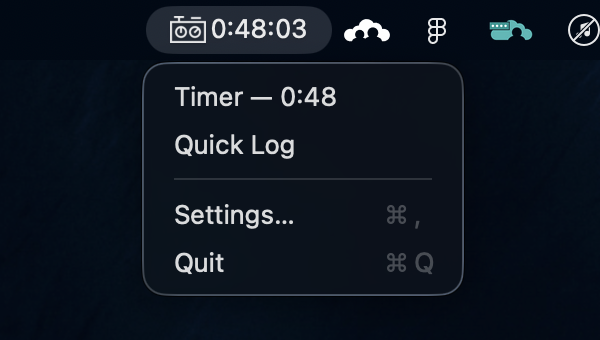
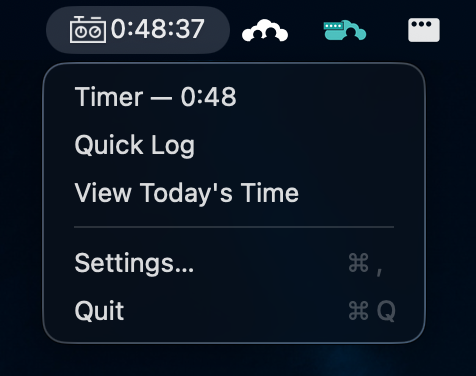
view todays time update

diff --git a/Sources/WmjQuickTimer/AppModel.swift b/Sources/WmjQuickTimer/AppModel.swift
@@ -54,6 +54,7 @@ final class AppModel {
     }
     var projects: [Project] = []
     var services: [Service] = []
+    var todayRows: [TodayRow] = []
     var loadError: String?
     /// Projects on the user's recent timesheets, most recent first — used only
     /// to rank the search list (membership can't be queried; see AGENTS.md).
@@ -267,6 +268,33 @@ final class AppModel {
         }
     }
 
+    /// Today's timesheet entries resolved to names for the Today panel.
+    /// Needs `refresh()` to have populated projects/services first.
+    func loadToday() async {
+        if Self.demo {
+            todayRows = TodayRow.build(entries: Self.demoTodayEntries, projects: Self.demoProjects,
+                                       services: Self.demoServices, tasksByProject: ["d1": Self.demoTasks])
+            return
+        }
+        guard isConfigured else { return }
+        do {
+            let entries = try await api.timeEntries(on: Date())
+            var tasksByProject: [String: [WMJTask]] = [:]
+            // A day's timesheet has single-digit distinct projects — far under
+            // the ~55-request 429 ceiling. A failed lookup just shows raw taskIDs.
+            for key in Set(entries.compactMap(\.projectKey)) {
+                tasksByProject[key] = (try? await api.tasks(projectKey: key)) ?? []
+            }
+            todayRows = TodayRow.build(entries: entries, projects: projects,
+                                       services: services, tasksByProject: tasksByProject)
+            loadError = nil
+        } catch is CancellationError {
+        } catch let error as URLError where error.code == .cancelled {
+        } catch {
+            loadError = error.localizedDescription
+        }
+    }
+
     /// Tasks for a project the user can plausibly log time to: not completed,
     /// and assigned to them or unassigned. The API has no real "can log time"
     /// check short of POSTing an entry, so this is the best available gate.
@@ -355,6 +383,19 @@ extension AppModel {
         assets: [.init(name: "Wmj-Quick-Timer-0.3.0.zip",
                        browserDownloadURL: URL(string: "https://example.invalid/demo.zip")!,
                        size: 664_789)])
+
+    /// Today panel rows: two resolve against `demoTasks`, one exercises the
+    /// raw-taskID fallback (nil projectKey), and the 0-hour row must be hidden.
+    static let demoTodayEntries = [
+        TimesheetEntry(timeKey: "e1", actualHours: 1.5, projectNumber: "ACME-1042",
+                       taskID: "30", serviceCode: "dev", workDate: "2026-08-05T00:00:00", projectKey: "d1"),
+        TimesheetEntry(timeKey: "e2", actualHours: 0.75, projectNumber: "ACME-1042",
+                       taskID: "50", serviceCode: "crtv", workDate: "2026-08-05T00:00:00", projectKey: "d1"),
+        TimesheetEntry(timeKey: "e3", actualHours: 2, projectNumber: "NORTH-2201",
+                       taskID: "2.1.1", serviceCode: "strat", workDate: "2026-08-05T00:00:00"),
+        TimesheetEntry(timeKey: "e4", actualHours: 0, projectNumber: "GLOBEX-3310",
+                       taskID: "10", serviceCode: "am", workDate: "2026-08-05T00:00:00", projectKey: "d4"),
+    ]
 
     static let demoServices = [
         Service(serviceCode: "CRTV", description: "Creative"),

diff --git a/Sources/WmjQuickTimer/Panels.swift b/Sources/WmjQuickTimer/Panels.swift
@@ -5,6 +5,7 @@ enum WindowID {
     static let timer = "timer"
     static let quickLog = "quickLog"
     static let update = "update"
+    static let today = "today"
 }
 
 /// Update window: what's new, and a button that downloads, verifies and
@@ -199,6 +200,61 @@ struct QuickLogPanel: View {
     }
 }
 
+/// Today panel: what's already on today's timesheet, resolved to names, with a
+/// link out to the full Workamajig timesheet.
+struct TodayPanel: View {
+    @Environment(AppModel.self) private var model
+    @State private var loading = true
+
+    var body: some View {
+        VStack(alignment: .leading, spacing: 12) {
+            Text("Today's Time").font(.headline)
+            if loading && model.todayRows.isEmpty {
+                ProgressView().controlSize(.small)
+            } else if model.todayRows.isEmpty {
+                Text("No time logged today.")
+                    .font(.callout)
+                    .foregroundStyle(.secondary)
+            } else {
+                Grid(alignment: .leading, horizontalSpacing: 12, verticalSpacing: 6) {
+                    GridRow {
+                        Text("Project")
+                        Text("Task")
+                        Text("Service")
+                        Text("Hours").gridColumnAlignment(.trailing)
+                    }
+                    .font(.caption)
+                    .foregroundStyle(.secondary)
+                    Divider()
+                    ForEach(model.todayRows) { row in
+                        GridRow {
+                            Text(row.projectName)
+                            Text(row.taskName)
+                            Text(row.serviceName)
+                            Text(row.hours, format: .number.precision(.fractionLength(2)))
+                                .monospacedDigit()
+                        }
+                        .font(.callout)
+                    }
+                }
+            }
+            if let url = URL(string: model.wmjURL), !model.wmjURL.isEmpty {
+                Link("View Full Timesheet", destination: url)
+            }
+            if let message = model.loadError {
+                Text(message).font(.caption).foregroundStyle(.red)
+            }
+        }
+        .panelChrome(width: 520)
+        .task {
+            // refresh first: the name joins need projects/services loaded.
+            await model.refresh()
+            await model.loadToday()
+            loading = false
+        }
+    }
+}
+
 /// Drops the containing window under the menu bar icon instead of wherever
 /// SwiftUI last left it.
 private struct StatusItemAnchor: NSViewRepresentable {
@@ -225,9 +281,9 @@ private struct StatusItemAnchor: NSViewRepresentable {
 }
 
 extension View {
-    func panelChrome() -> some View {
+    func panelChrome(width: CGFloat = 380) -> some View {
         padding(16)
-            .frame(width: 380)
+            .frame(width: width)
             .fixedSize(horizontal: false, vertical: true)
             .background(StatusItemAnchor())
             .regularWhileOpen()

diff --git a/Sources/WmjQuickTimerCore/Models.swift b/Sources/WmjQuickTimerCore/Models.swift
@@ -200,6 +200,45 @@ public extension [TimesheetEntry] {
     }
 }
 
+/// One display row of today's logged time: timesheet entries resolved to
+/// human-readable names (`GET /time` returns only numbers/codes).
+public struct TodayRow: Identifiable, Sendable, Equatable {
+    public var id: String
+    public var projectName: String
+    public var taskName: String
+    public var serviceName: String
+    public var hours: Double
+
+    /// Joins entries against the already-loaded projects/services and the
+    /// per-project task lists. Every lookup falls back to the raw value, and
+    /// 0-hour rows (the app's own pre-start validation entries) are hidden.
+    public static func build(entries: [TimesheetEntry], projects: [Project],
+                             services: [Service], tasksByProject: [String: [WMJTask]]) -> [TodayRow] {
+        entries.filter { $0.actualHours != 0 }.map { entry in
+            let project = projects.first { $0.projectNumber == entry.projectNumber }
+            let service = services.first {
+                $0.serviceCode.caseInsensitiveCompare(entry.serviceCode) == .orderedSame
+            }
+            let task = entry.projectKey.flatMap { key in
+                tasksByProject[key]?.first { $0.taskID == entry.taskID }
+            }
+            return TodayRow(id: entry.timeKey,
+                            projectName: project?.projectName ?? entry.projectNumber,
+                            taskName: task?.taskName ?? entry.taskID,
+                            serviceName: service?.description ?? entry.serviceCode,
+                            hours: entry.actualHours)
+        }
+    }
+
+    public init(id: String, projectName: String, taskName: String, serviceName: String, hours: Double) {
+        self.id = id
+        self.projectName = projectName
+        self.taskName = taskName
+        self.serviceName = serviceName
+        self.hours = hours
+    }
+}
+
 // MARK: - Response envelopes
 
 struct Envelope<Payload: Decodable>: Decodable {

diff --git a/Tests/WmjQuickTimerCoreTests/TodayReportTests.swift b/Tests/WmjQuickTimerCoreTests/TodayReportTests.swift
@@ -1,0 +1,31 @@
+import XCTest
+@testable import WmjQuickTimerCore
+
+final class TodayReportTests: XCTestCase {
+    func testBuildResolvesNamesWithFallbacks() {
+        let projects = [Project(projectKey: "p1", projectNumber: "ACME-1", projectName: "Website", clientName: "Acme")]
+        let services = [Service(serviceCode: "DEV", description: "Development")]
+        let tasks = [WMJTask(taskKey: "t1", taskID: "30", taskName: "Build")]
+        let entries = [
+            // Fully resolvable — service code lowercased like the real API.
+            TimesheetEntry(timeKey: "e1", actualHours: 1.5, projectNumber: "ACME-1",
+                           taskID: "30", serviceCode: "dev", workDate: "2026-08-05T00:00:00", projectKey: "p1"),
+            // Unknown project/service, nil projectKey — raw values fall through.
+            TimesheetEntry(timeKey: "e2", actualHours: 2, projectNumber: "MYST-9",
+                           taskID: "2.1.1", serviceCode: "xx", workDate: "2026-08-05T00:00:00"),
+            // 0-hour pre-start validation row — hidden.
+            TimesheetEntry(timeKey: "e3", actualHours: 0, projectNumber: "ACME-1",
+                           taskID: "30", serviceCode: "dev", workDate: "2026-08-05T00:00:00", projectKey: "p1"),
+        ]
+
+        let rows = TodayRow.build(entries: entries, projects: projects,
+                                  services: services, tasksByProject: ["p1": tasks])
+
+        XCTAssertEqual(rows, [
+            TodayRow(id: "e1", projectName: "Website", taskName: "Build",
+                     serviceName: "Development", hours: 1.5),
+            TodayRow(id: "e2", projectName: "MYST-9", taskName: "2.1.1",
+                     serviceName: "xx", hours: 2),
+        ])
+    }
+}

diff --git a/Sources/WmjQuickTimer/QuickTimerApp.swift b/Sources/WmjQuickTimer/QuickTimerApp.swift
@@ -45,6 +45,13 @@ struct WmjQuickTimerApp: App {
         .windowResizability(.contentSize)
         .defaultPosition(.topTrailing)
 
+        Window("Today's Time", id: WindowID.today) {
+            TodayPanel()
+                .environment(model)
+        }
+        .windowResizability(.contentSize)
+        .defaultPosition(.topTrailing)
+
         Window("Update", id: WindowID.update) {
             UpdatePanel()
                 .environment(model)
@@ -101,6 +108,7 @@ private struct MenuBarLabel: View {
             case "timer": openWindow(id: WindowID.timer)
             case "quicklog": openWindow(id: WindowID.quickLog)
             case "settings": openSettings()
+            case "today": openWindow(id: WindowID.today)
             case "update": openWindow(id: WindowID.update)
             default: break
             }

diff --git a/Sources/WmjQuickTimer/MenuView.swift b/Sources/WmjQuickTimer/MenuView.swift
@@ -16,6 +16,7 @@ struct MenuView: View {
         if model.isConfigured {
             Button(timerLabel) { open(WindowID.timer) }
             Button("Quick Log") { open(WindowID.quickLog) }
+            Button("View Today's Time") { open(WindowID.today) }
         } else {
             Button("Set Up Workamajig…") { showSettings() }
         }

diff --git a/docs/usage.md b/docs/usage.md
@@ -6,6 +6,7 @@ Click the timer icon in the menu bar for a short menu:
 
 - **Add Timer** (or **Timer — X:XX** while one is running) — opens the timer window
 - **Quick Log** — opens the quick log window
+- **View Today's Time** — shows what's already on today's timesheet
 - **Settings…** and **Quit**
 
 Each action opens its own small window that stays put while you work in other apps. Both are always available — you can quick-log hours while a timer is running.
@@ -45,6 +46,12 @@ Notes:
 
 - Only **one timer** can run at a time.
 - The timer keeps counting while your Mac sleeps, and **survives quitting or restarting the app** — it's based on wall-clock time, not a running counter.
+
+## View Today's Time
+
+![The Timer window while running](images/todays-time.png)
+
+A quick read-only check of what you've already logged today: a table of project, task, service, and hours for each entry on today's timesheet. (The 0-hour placeholder entries the timer's pre-start check creates are hidden.) **View Full Timesheet** at the bottom opens your Workamajig site in the browser.
 
 ## Settings
 

diff --git a/CHANGELOG.md b/CHANGELOG.md
@@ -5,6 +5,12 @@ Every released version of Wmj Quick Timer and what changed in it. Format follows
 [Semantic Versioning](https://semver.org). Downloads are on the
 [Releases page](https://github.com/Moosylvania/wmj-timer/releases).
 
+## [0.3.2] - 2026-08-05
+
+### Added
+
+- **View Today's Time** in the menu: a window listing what's already on today's timesheet (project, task, service, hours), with a **View Full Timesheet** link that opens your Workamajig site in the browser.
+
 ## [0.3.1] - 2026-08-04
 
 ### Added
